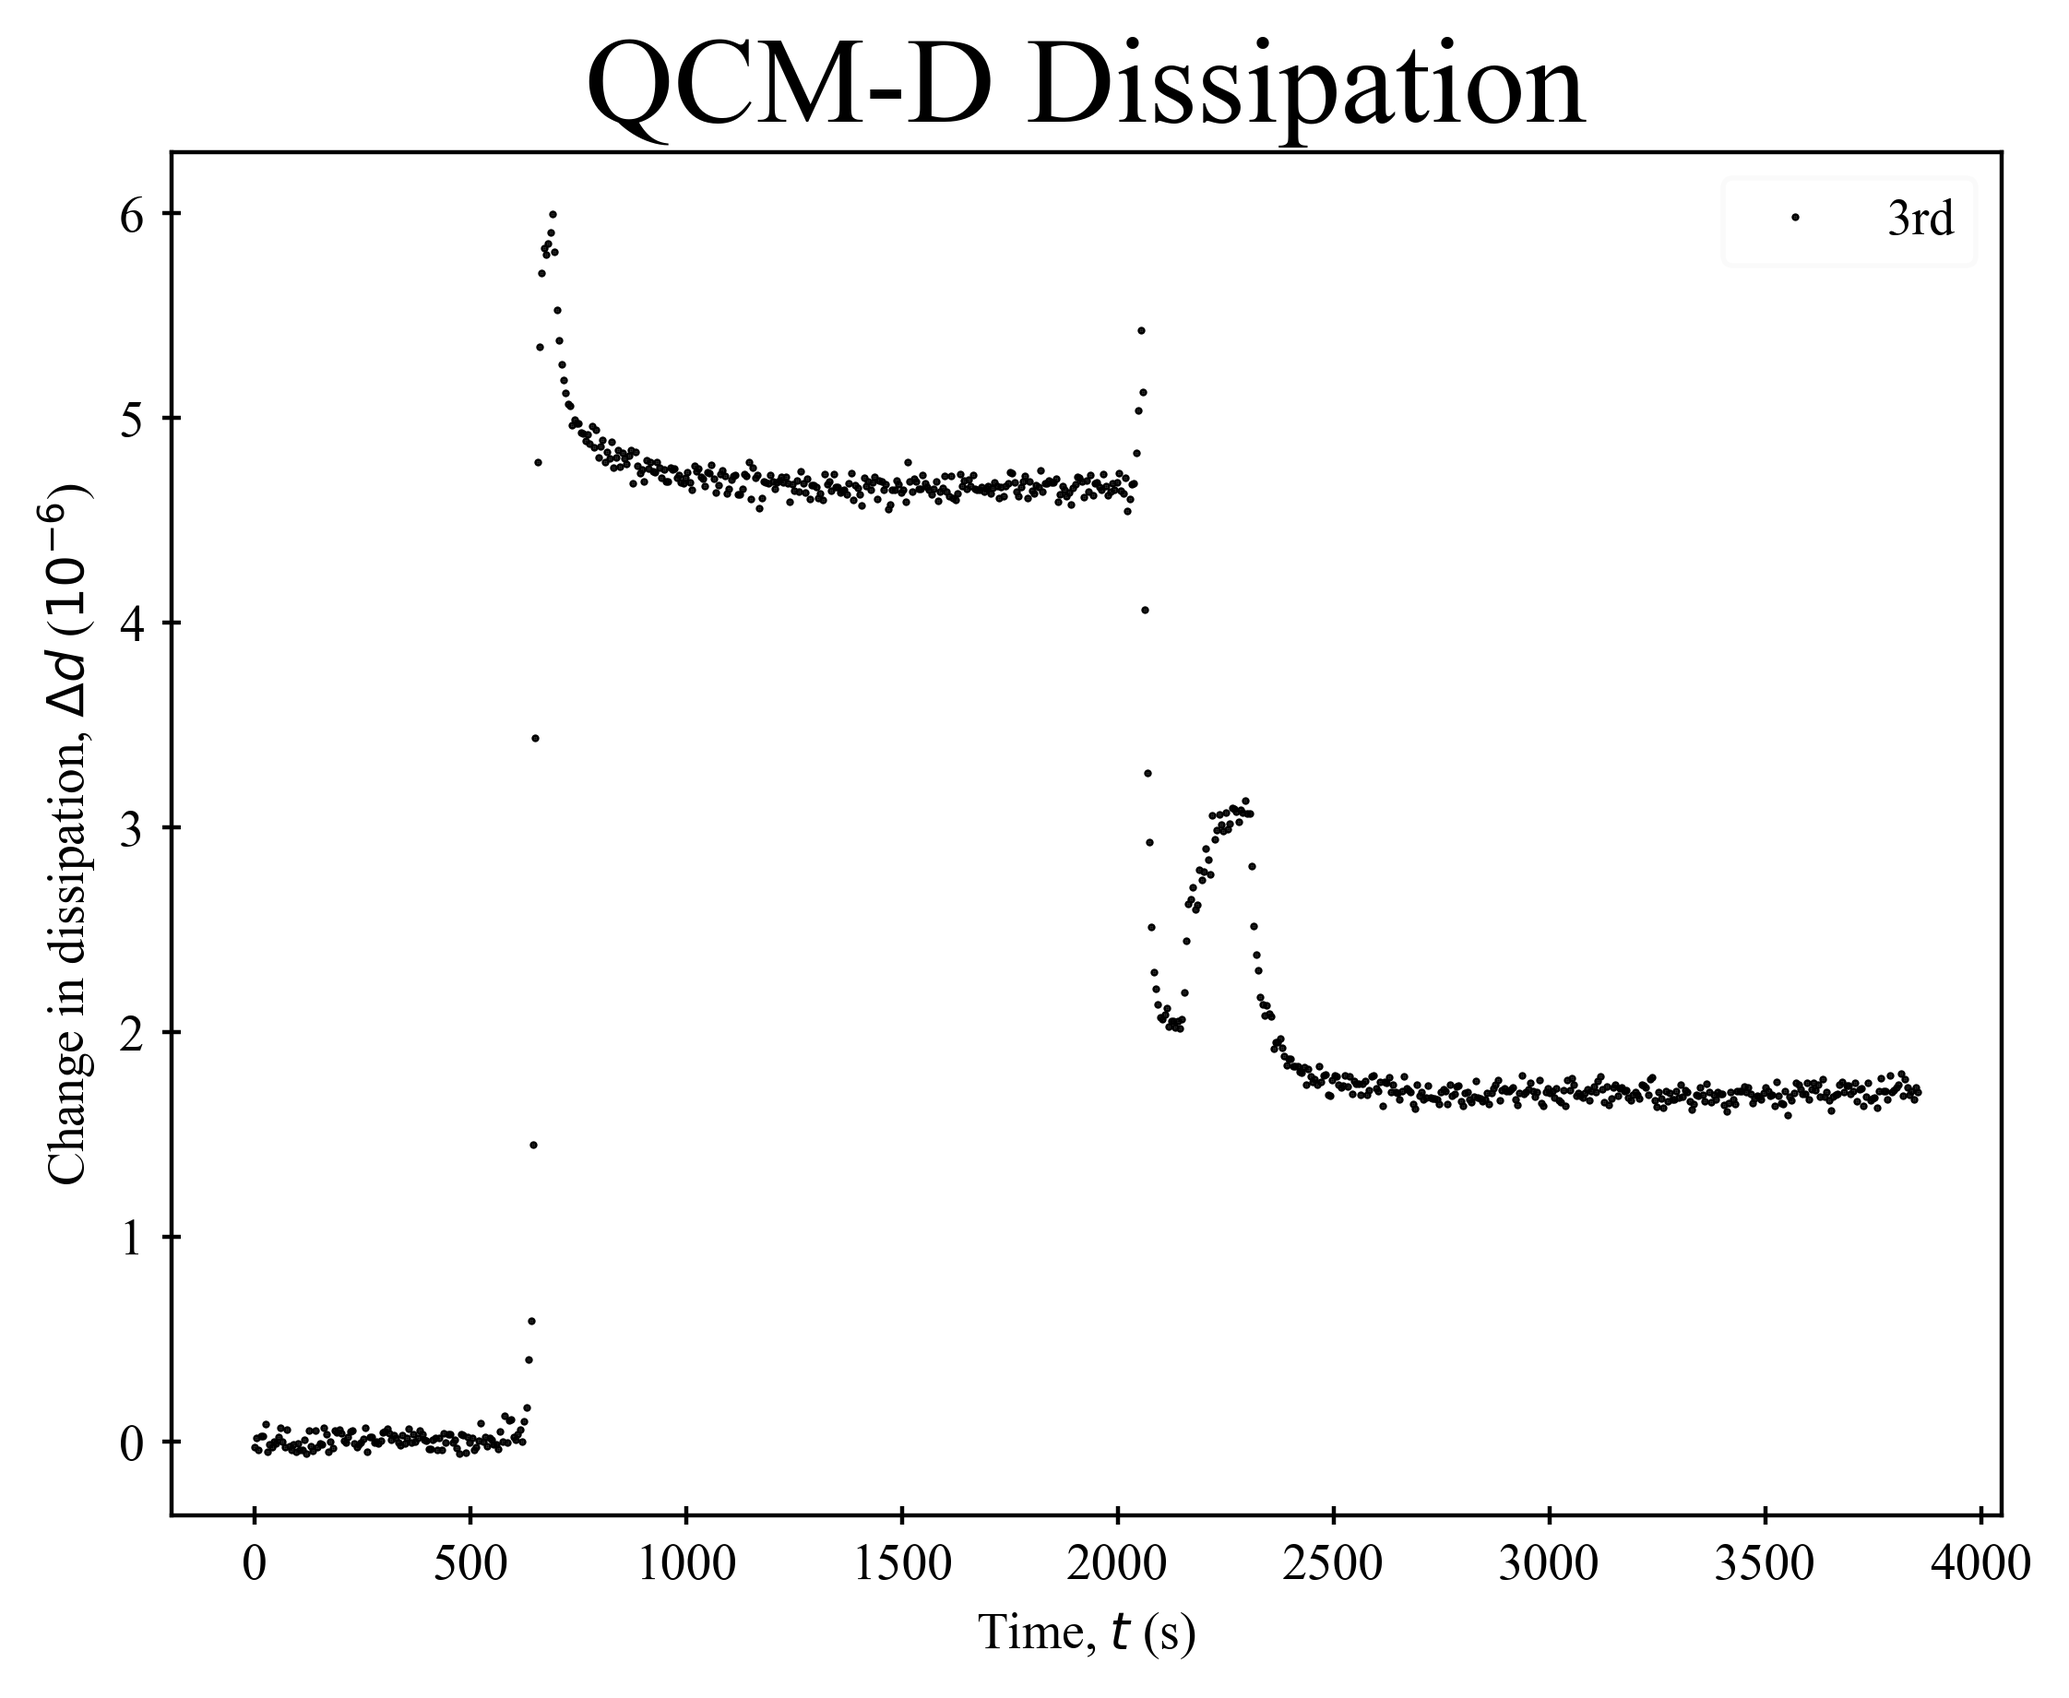
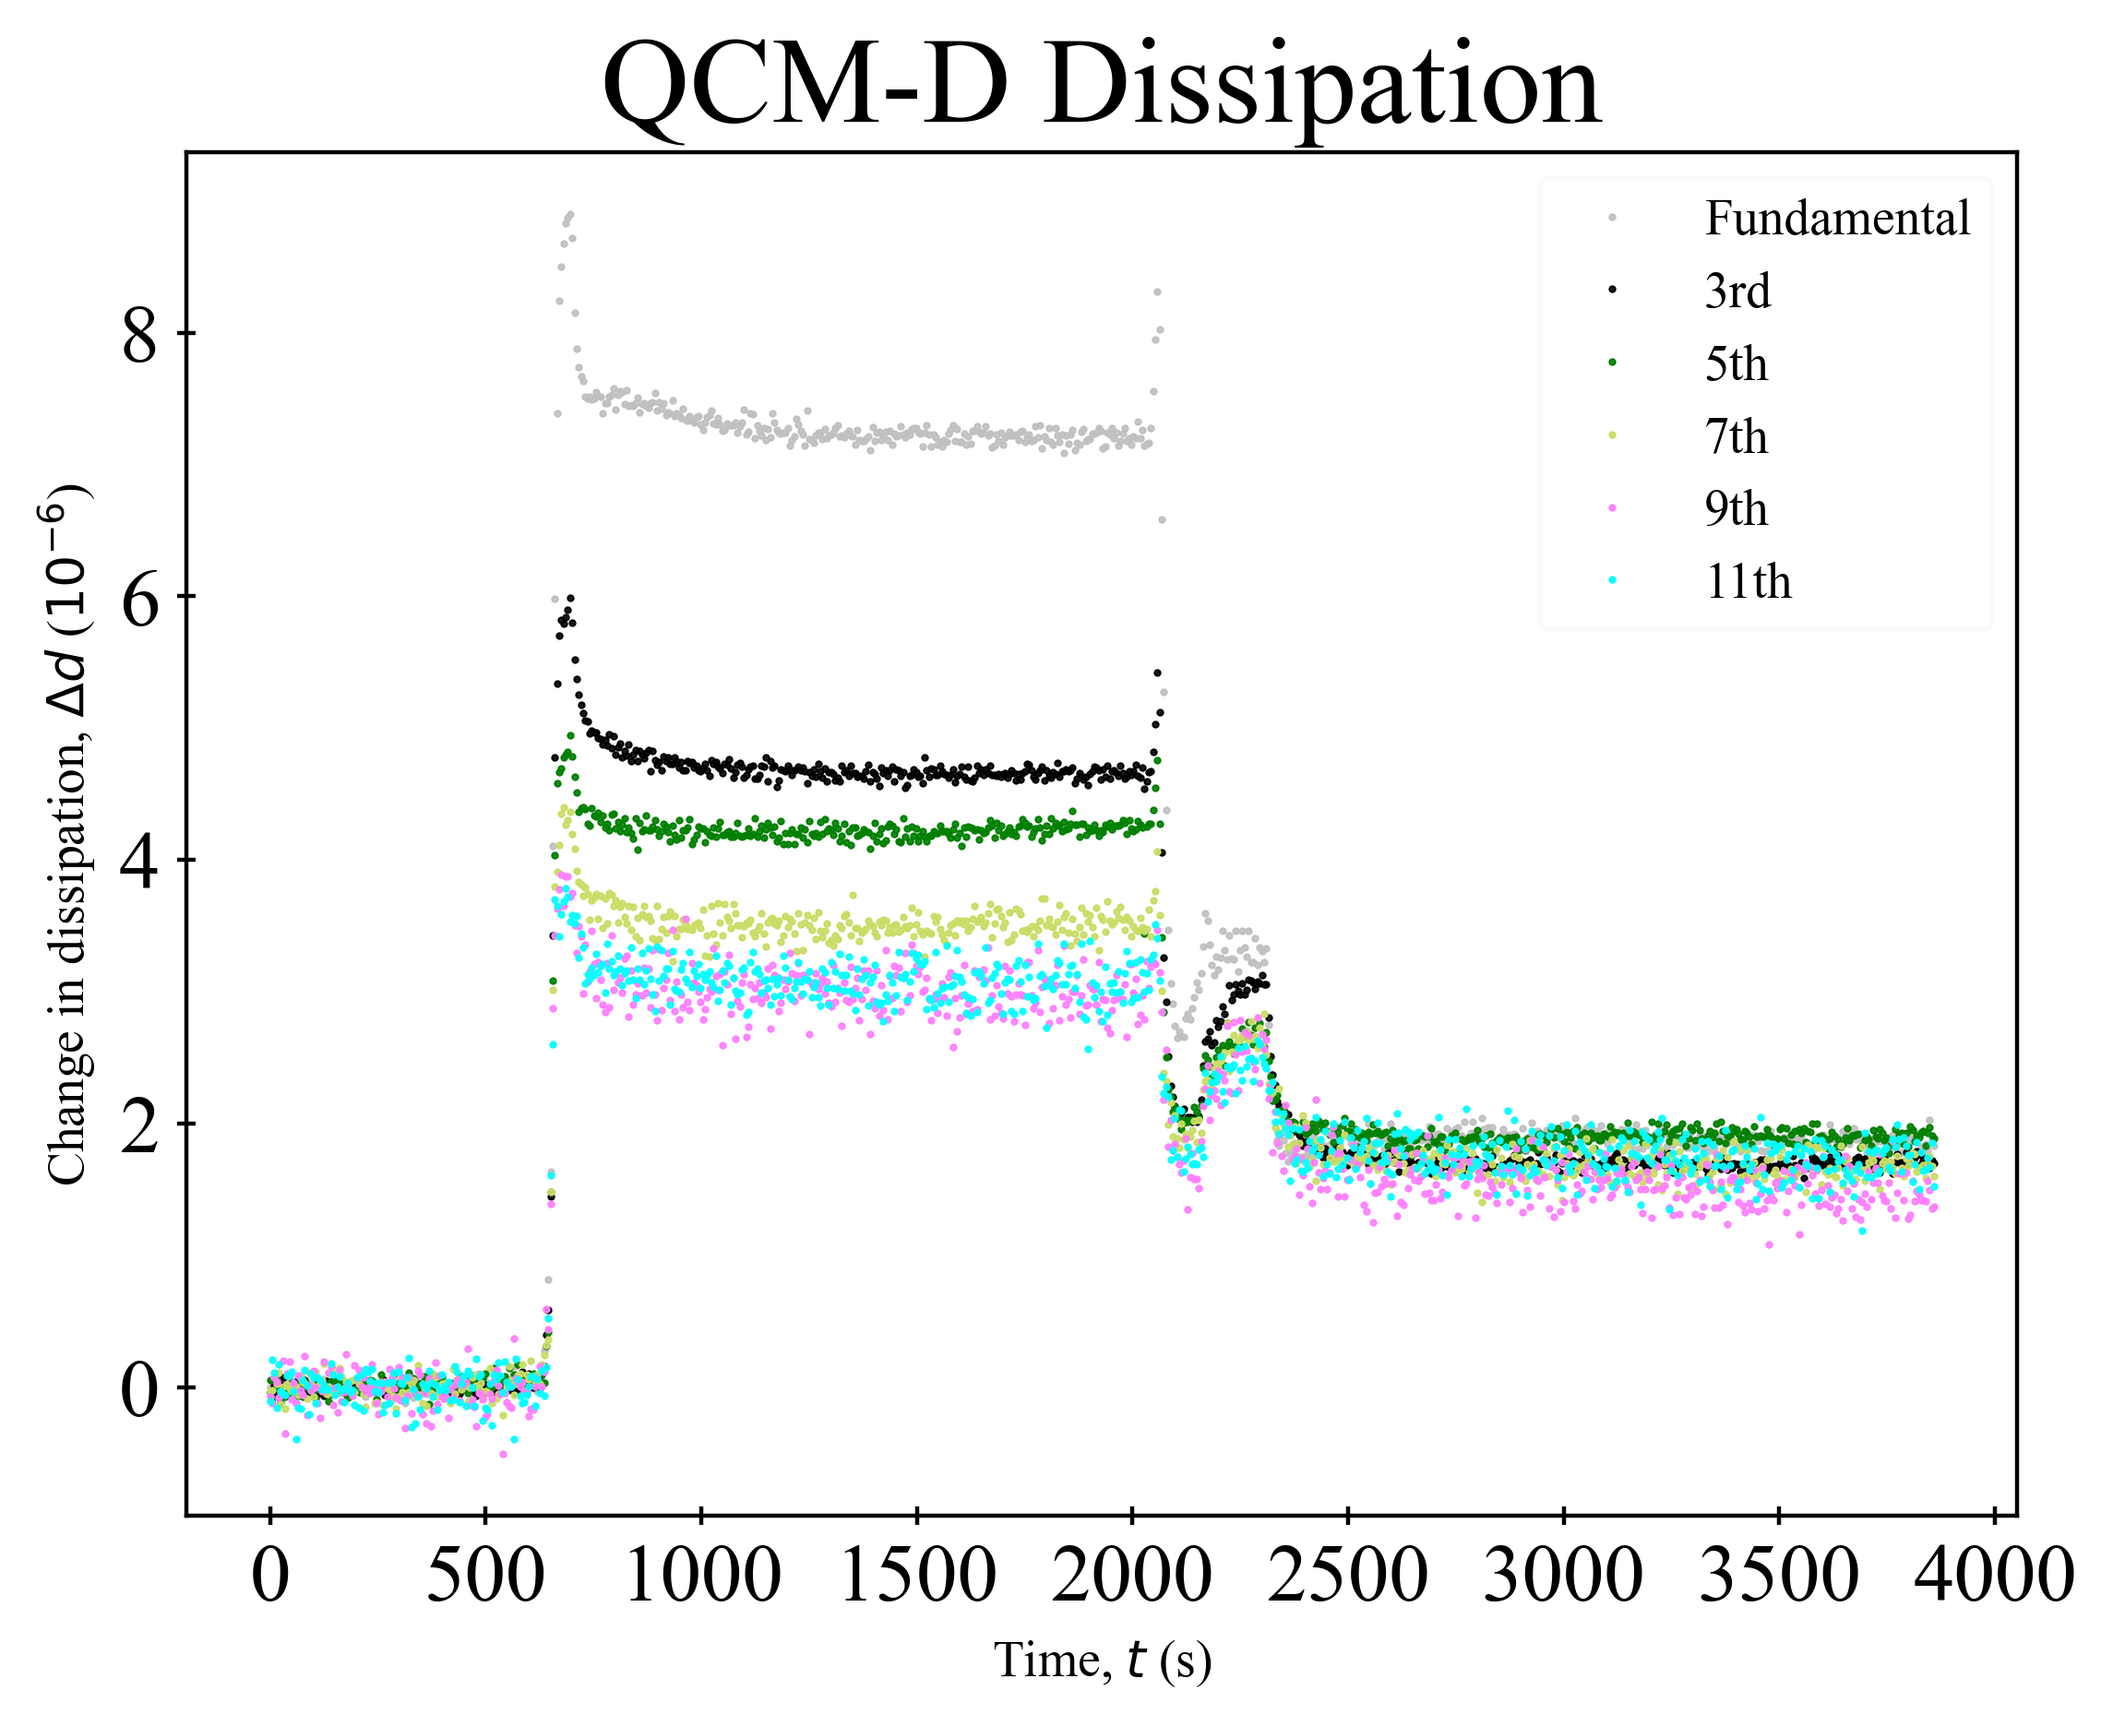
finished v1 plot opts

diff --git a/BraTaDio_Fn/modeling.py b/BraTaDio_Fn/modeling.py
@@ -10,7 +10,7 @@ import matplotlib.pyplot as plt
 from scipy.optimize import curve_fit
 
 import Exceptions
-from analyze import determine_xlabel, get_plot_preferences
+from analyze import determine_xlabel, get_plot_preferences, map_colors
 
 # pass in 3 dimensional array of data values
     # inner most arrays are of individual values [val_x1, val_x2, ... val_xn]
@@ -54,11 +54,6 @@ def propogate_mean_err(means, errs, n_vals):
 
 def linear(x, m, b):
     return m * x + b
-
-def _get_color_map():
-    color_map = {'fundamental_freq':'blue', '3rd_freq':'orange', '5th_freq':'green',
-                    '7th_freq':'red', '9th_freq':'purple', '11th_freq':'aqua', '13th_freq':'pink'}
-    return color_map
 
 def get_overtones_selected(which_plot):
     overtones = []
@@ -202,13 +197,16 @@ def linearly_analyze(x, y, ax):
     ax.plot(x, y_fit, 'r', label=f'Linear fit:\ny = {m:.4f}x {sign} {np.abs(b):.4f}\nrsq = {rSquared:.4f}')
 
 def format_plot(ax, x_label, y_label, title):
+    plot_customs = get_plot_preferences()
+    font = plot_customs['font']
     plt.sca(ax)
-    plt.legend(loc='best', fontsize=14, prop={'family': 'Arial'}, framealpha=0.3)
-    plt.xticks(fontsize=14, fontfamily='Arial')
-    plt.yticks(fontsize=14, fontfamily='Arial') 
-    plt.xlabel(x_label, fontsize=16, fontfamily='Arial')
-    plt.ylabel(y_label, fontsize=16, fontfamily='Arial')
-    plt.title(title, fontsize=16, fontfamily='Arial')
+    plt.legend(loc='best', fontsize=plot_customs['legend_text_size'], prop={'family': font}, framealpha=0.3)
+    plt.xticks(fontsize=plot_customs['value_text_size'], fontfamily=font)
+    plt.yticks(fontsize=plot_customs['value_text_size'], fontfamily=font) 
+    plt.xlabel(x_label, fontsize=plot_customs['label_text_size'], fontfamily=font)
+    plt.ylabel(y_label, fontsize=plot_customs['label_text_size'], fontfamily=font)
+    plt.tick_params(axis='both', direction=plot_customs['tick_dir'])
+    plt.title(title, fontsize=plot_customs['title_text_size'], fontfamily=font)
 
 # grab plot labels determined by use of latex, and which function modeling
 def get_labels(label, usetex, model):
@@ -284,7 +282,8 @@ def sauerbrey(user_input):
     df = pd.read_csv("selected_ranges/Sauerbrey_ranges.csv")
     labels = df['range_used'].unique()
     print(f"LABELS: {labels}")
-    color_map = _get_color_map()
+    color_map, _ = map_colors(get_plot_preferences())
+
 
     for label in labels:
         df_range = df.loc[df['range_used'] == label]

diff --git a/BraTaDio_Fn/README.md b/BraTaDio_Fn/README.md
@@ -130,17 +130,12 @@ if it is not, please comment out the 2 lines below
 
 - document and comment the hell out of the code
 
-- error checking to ensure all plot opts are inputted
 - maybe add marker size/type customizations
-- add plot customizations to modeling.py
 
-- Sauerbray film thickness modeling
-    - option to use peak frequency value or theoretical value for C
-        - C = Vq * Pq / 2F0^2   ->   theoretically is 17.7 for a 5MHz crystal
-
-- add option in col 5 to indicate if user has latex installed. if yes, linear regression model will remain as is with italicized capital greek letters, if not, disable rc params and user std matplotlib chars
+- remove latex features
 
 - get calibration data for peak frequencies for linear regression (currently just using theoretical)
+    - C = Vq * Pq / 2F0^2
 
 - refactor analyze() to put each opt into its own function
 
@@ -153,6 +148,7 @@ if it is not, please comment out the 2 lines below
 - fixed set with copy warning for multiaxis plot
 - fixed legend placement for multiaxis plot
 - added error checking to ensure all plot opt fields are filled out
+- modeling.py functions now utilize plot customizations
 
 4/29
 - began plot customizations class and figured out inheritance issue (instantiated in App class)
